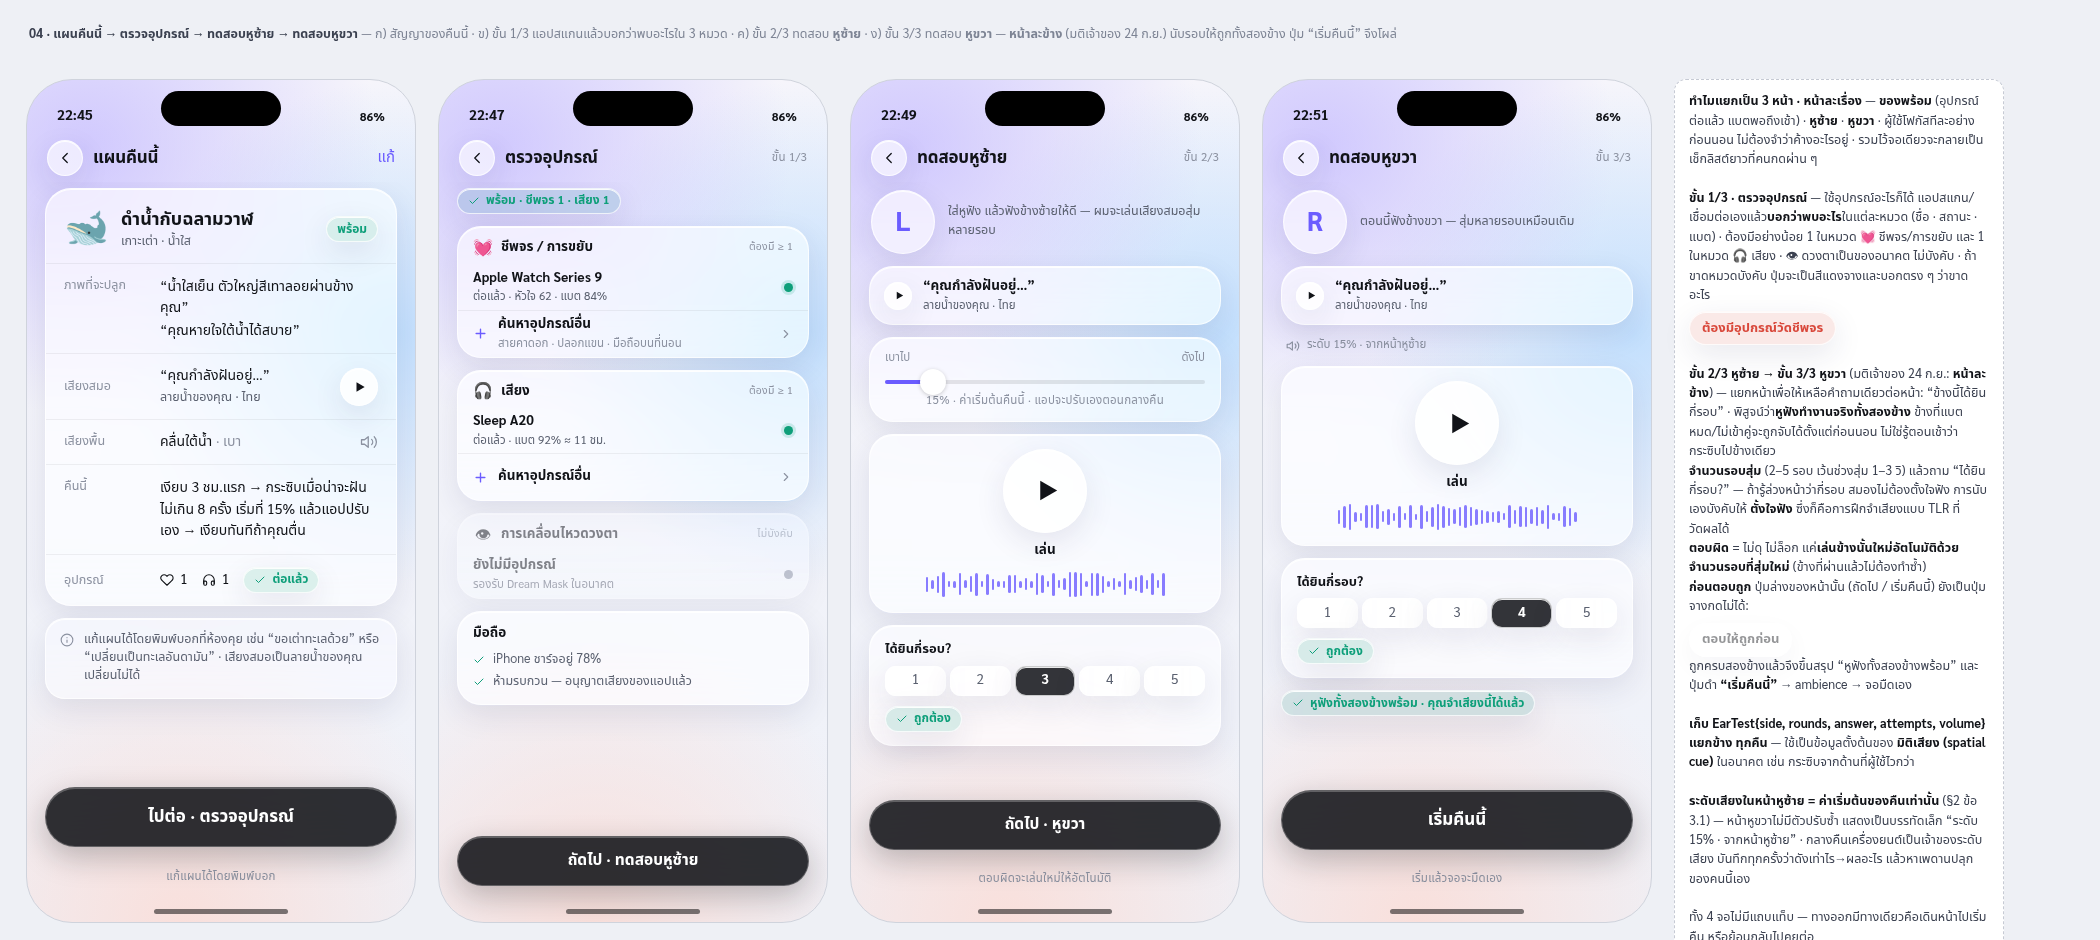
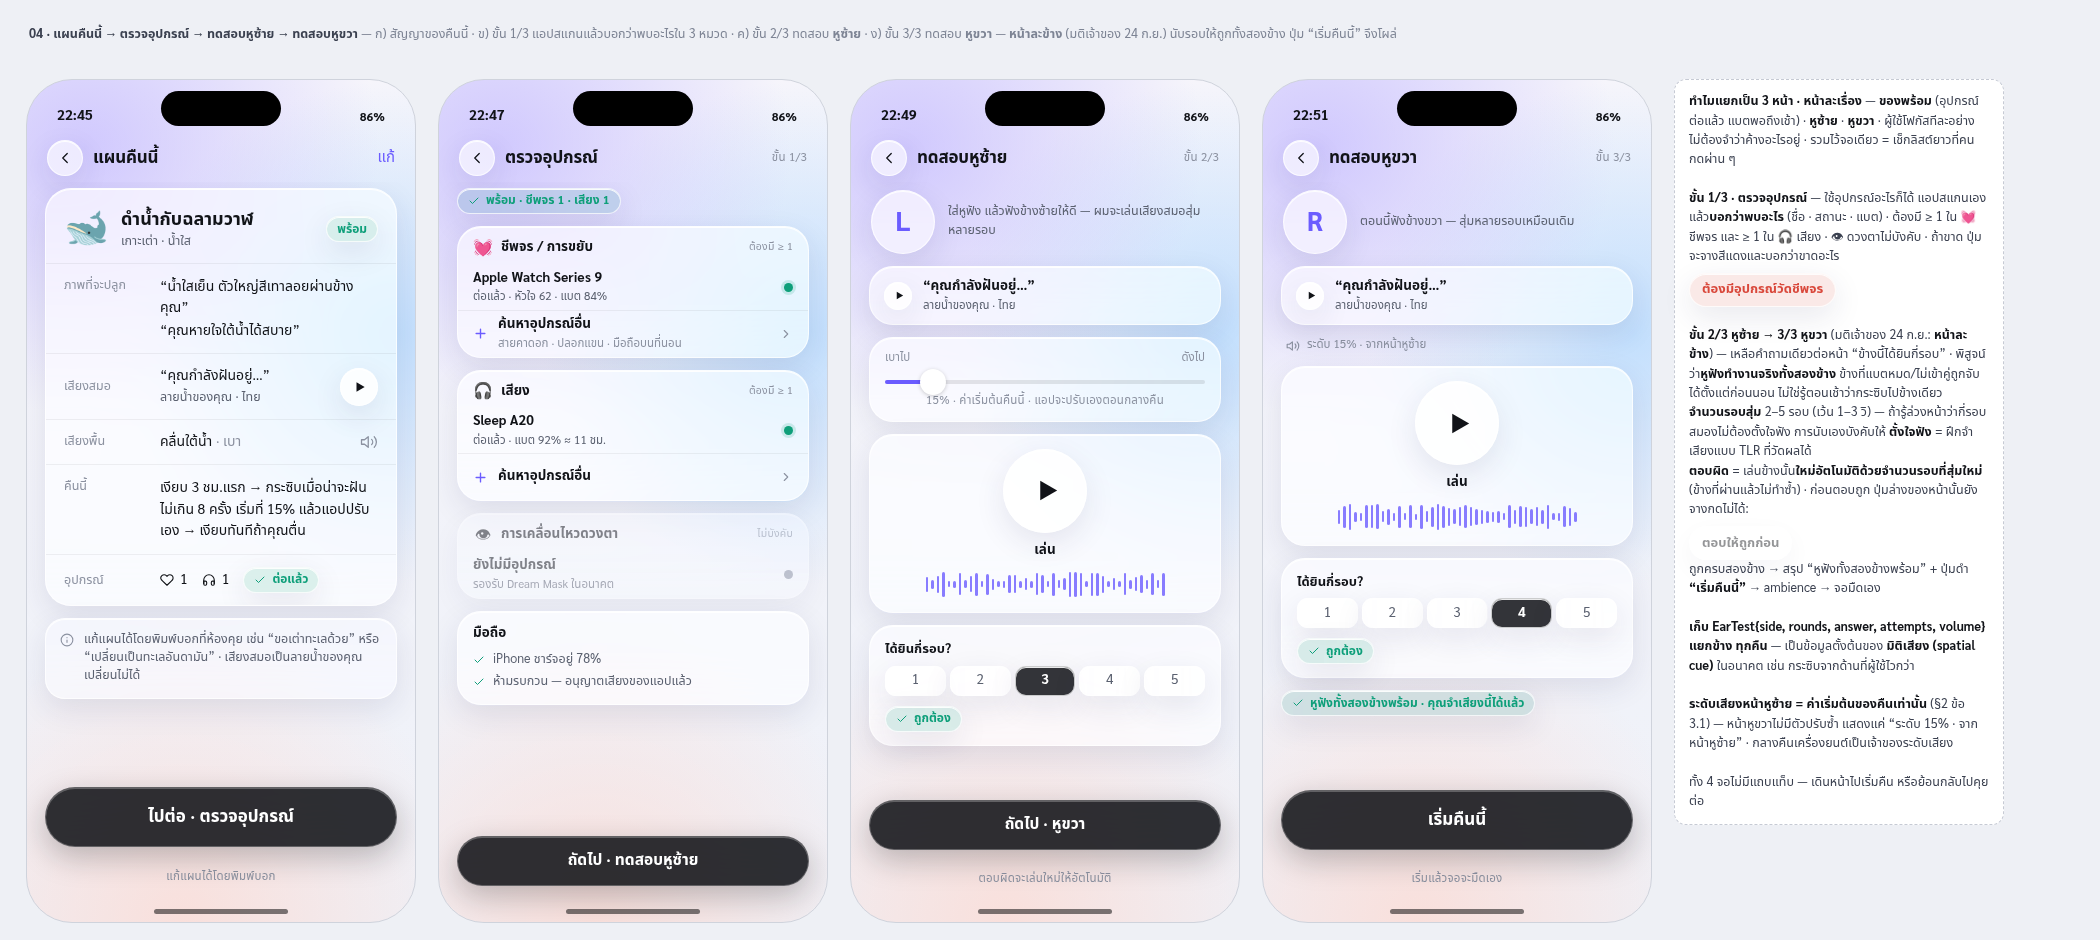
ภาพ 04: 4 จอ (แผน → ตรวจอุปกรณ์ → ทดสอบหูซ้าย → ทดสอบหูขวา → เริ่ม)

Changed region(s): [[0.8048, 0.216, 0.9595, 1.0], [0.8048, 0.1234, 0.9595, 0.1851], [0.8667, 0.9564, 0.9286, 0.9872]]

diff --git a/ledger/design-app/04-dream-plan.html b/ledger/design-app/04-dream-plan.html
@@ -589,18 +589,17 @@ h1.big{font-size:28px;font-weight:700;letter-spacing:-.02em;line-height:1.2}
   </div>
 
   <div class="note">
-    <b>ทำไมแยกเป็น 3 หน้า · หน้าละเรื่อง</b> — <b>ของพร้อม</b> (อุปกรณ์ต่อแล้ว แบตพอถึงเช้า) · <b>หูซ้าย</b> · <b>หูขวา</b> · ผู้ใช้โฟกัสทีละอย่างก่อนนอน ไม่ต้องจำว่าค้างอะไรอยู่ · รวมไว้จอเดียวจะกลายเป็นเช็กลิสต์ยาวที่คนกดผ่าน ๆ<br><br>
-    <b>ขั้น 1/3 · ตรวจอุปกรณ์</b> — ใช้อุปกรณ์อะไรก็ได้ แอปสแกน/เชื่อมต่อเองแล้ว<b>บอกว่าพบอะไร</b>ในแต่ละหมวด (ชื่อ · สถานะ · แบต) · ต้องมีอย่างน้อย 1 ในหมวด 💓 ชีพจร/การขยับ และ 1 ในหมวด 🎧 เสียง · 👁 ดวงตาเป็นของอนาคต ไม่บังคับ · ถ้าขาดหมวดบังคับ ปุ่มจะเป็นสีแดงจางและบอกตรง ๆ ว่าขาดอะไร<br>
+    <b>ทำไมแยกเป็น 3 หน้า · หน้าละเรื่อง</b> — <b>ของพร้อม</b> (อุปกรณ์ต่อแล้ว แบตพอถึงเช้า) · <b>หูซ้าย</b> · <b>หูขวา</b> · ผู้ใช้โฟกัสทีละอย่าง ไม่ต้องจำว่าค้างอะไรอยู่ · รวมไว้จอเดียว = เช็กลิสต์ยาวที่คนกดผ่าน ๆ<br><br>
+    <b>ขั้น 1/3 · ตรวจอุปกรณ์</b> — ใช้อุปกรณ์อะไรก็ได้ แอปสแกนเองแล้ว<b>บอกว่าพบอะไร</b> (ชื่อ · สถานะ · แบต) · ต้องมี ≥ 1 ใน 💓 ชีพจร และ ≥ 1 ใน 🎧 เสียง · 👁 ดวงตาไม่บังคับ · ถ้าขาด ปุ่มจะจางสีแดงและบอกว่าขาดอะไร<br>
     <span class="btn dg sm" style="margin-top:6px">ต้องมีอุปกรณ์วัดชีพจร</span><br><br>
-    <b>ขั้น 2/3 หูซ้าย → ขั้น 3/3 หูขวา</b> (มติเจ้าของ 24 ก.ย.: <b>หน้าละข้าง</b>) — แยกหน้าเพื่อให้เหลือคำถามเดียวต่อหน้า: “ข้างนี้ได้ยินกี่รอบ” · พิสูจน์ว่า<b>หูฟังทำงานจริงทั้งสองข้าง</b> ข้างที่แบตหมด/ไม่เข้าคู่จะถูกจับได้ตั้งแต่ก่อนนอน ไม่ใช่รู้ตอนเช้าว่ากระซิบไปข้างเดียว<br>
-    <b>จำนวนรอบสุ่ม</b> (2–5 รอบ เว้นช่วงสุ่ม 1–3 วิ) แล้วถาม “ได้ยินกี่รอบ?” — ถ้ารู้ล่วงหน้าว่ากี่รอบ สมองไม่ต้องตั้งใจฟัง การนับเองบังคับให้ <b>ตั้งใจฟัง</b> ซึ่งก็คือการฝึกจำเสียงแบบ TLR ที่วัดผลได้<br>
-    <b>ตอบผิด</b> = ไม่ดุ ไม่ล็อก แค่<b>เล่นข้างนั้นใหม่อัตโนมัติด้วยจำนวนรอบที่สุ่มใหม่</b> (ข้างที่ผ่านแล้วไม่ต้องทำซ้ำ)<br>
-    <b>ก่อนตอบถูก</b> ปุ่มล่างของหน้านั้น (ถัดไป / เริ่มคืนนี้) ยังเป็นปุ่มจางกดไม่ได้:<br>
+    <b>ขั้น 2/3 หูซ้าย → 3/3 หูขวา</b> (มติเจ้าของ 24 ก.ย.: <b>หน้าละข้าง</b>) — เหลือคำถามเดียวต่อหน้า “ข้างนี้ได้ยินกี่รอบ” · พิสูจน์ว่า<b>หูฟังทำงานจริงทั้งสองข้าง</b> ข้างที่แบตหมด/ไม่เข้าคู่ถูกจับได้ตั้งแต่ก่อนนอน ไม่ใช่รู้ตอนเช้าว่ากระซิบไปข้างเดียว<br>
+    <b>จำนวนรอบสุ่ม</b> 2–5 รอบ (เว้น 1–3 วิ) — ถ้ารู้ล่วงหน้าว่ากี่รอบ สมองไม่ต้องตั้งใจฟัง การนับเองบังคับให้ <b>ตั้งใจฟัง</b> = ฝึกจำเสียงแบบ TLR ที่วัดผลได้<br>
+    <b>ตอบผิด</b> = เล่นข้างนั้น<b>ใหม่อัตโนมัติด้วยจำนวนรอบที่สุ่มใหม่</b> (ข้างที่ผ่านแล้วไม่ทำซ้ำ) · ก่อนตอบถูก ปุ่มล่างของหน้านั้นยังจางกดไม่ได้:<br>
     <span class="btn gh sm fade" style="margin-top:6px">ตอบให้ถูกก่อน</span><br>
-    ถูกครบสองข้างแล้วจึงขึ้นสรุป “หูฟังทั้งสองข้างพร้อม” และปุ่มดำ <b>“เริ่มคืนนี้”</b> → ambience → จอมืดเอง<br><br>
-    <b>เก็บ EarTest{side, rounds, answer, attempts, volume} แยกข้าง ทุกคืน</b> — ใช้เป็นข้อมูลตั้งต้นของ <b>มิติเสียง (spatial cue)</b> ในอนาคต เช่น กระซิบจากด้านที่ผู้ใช้ไวกว่า<br><br>
-    <b>ระดับเสียงในหน้าหูซ้าย = ค่าเริ่มต้นของคืนเท่านั้น</b> (§2 ข้อ 3.1) — หน้าหูขวาไม่มีตัวปรับซ้ำ แสดงเป็นบรรทัดเล็ก “ระดับ 15% · จากหน้าหูซ้าย” · กลางคืนเครื่องยนต์เป็นเจ้าของระดับเสียง บันทึกทุกครั้งว่าดังเท่าไร→ผลอะไร แล้วหาเพดานปลุกของคนนี้เอง<br><br>
-    ทั้ง 4 จอไม่มีแถบแท็บ — ทางออกมีทางเดียวคือเดินหน้าไปเริ่มคืน หรือย้อนกลับไปคุยต่อ
+    ถูกครบสองข้าง → สรุป “หูฟังทั้งสองข้างพร้อม” + ปุ่มดำ <b>“เริ่มคืนนี้”</b> → ambience → จอมืดเอง<br><br>
+    <b>เก็บ EarTest{side, rounds, answer, attempts, volume} แยกข้าง ทุกคืน</b> — เป็นข้อมูลตั้งต้นของ <b>มิติเสียง (spatial cue)</b> ในอนาคต เช่น กระซิบจากด้านที่ผู้ใช้ไวกว่า<br><br>
+    <b>ระดับเสียงหน้าหูซ้าย = ค่าเริ่มต้นของคืนเท่านั้น</b> (§2 ข้อ 3.1) — หน้าหูขวาไม่มีตัวปรับซ้ำ แสดงแค่ “ระดับ 15% · จากหน้าหูซ้าย” · กลางคืนเครื่องยนต์เป็นเจ้าของระดับเสียง<br><br>
+    ทั้ง 4 จอไม่มีแถบแท็บ — เดินหน้าไปเริ่มคืน หรือย้อนกลับไปคุยต่อ
   </div>
 
 </div>

diff --git a/ledger/design-app/04-dream-plan.body.html b/ledger/design-app/04-dream-plan.body.html
@@ -326,18 +326,17 @@
   </div>
 
   <div class="note">
-    <b>ทำไมแยกเป็น 3 หน้า · หน้าละเรื่อง</b> — <b>ของพร้อม</b> (อุปกรณ์ต่อแล้ว แบตพอถึงเช้า) · <b>หูซ้าย</b> · <b>หูขวา</b> · ผู้ใช้โฟกัสทีละอย่างก่อนนอน ไม่ต้องจำว่าค้างอะไรอยู่ · รวมไว้จอเดียวจะกลายเป็นเช็กลิสต์ยาวที่คนกดผ่าน ๆ<br><br>
-    <b>ขั้น 1/3 · ตรวจอุปกรณ์</b> — ใช้อุปกรณ์อะไรก็ได้ แอปสแกน/เชื่อมต่อเองแล้ว<b>บอกว่าพบอะไร</b>ในแต่ละหมวด (ชื่อ · สถานะ · แบต) · ต้องมีอย่างน้อย 1 ในหมวด 💓 ชีพจร/การขยับ และ 1 ในหมวด 🎧 เสียง · 👁 ดวงตาเป็นของอนาคต ไม่บังคับ · ถ้าขาดหมวดบังคับ ปุ่มจะเป็นสีแดงจางและบอกตรง ๆ ว่าขาดอะไร<br>
+    <b>ทำไมแยกเป็น 3 หน้า · หน้าละเรื่อง</b> — <b>ของพร้อม</b> (อุปกรณ์ต่อแล้ว แบตพอถึงเช้า) · <b>หูซ้าย</b> · <b>หูขวา</b> · ผู้ใช้โฟกัสทีละอย่าง ไม่ต้องจำว่าค้างอะไรอยู่ · รวมไว้จอเดียว = เช็กลิสต์ยาวที่คนกดผ่าน ๆ<br><br>
+    <b>ขั้น 1/3 · ตรวจอุปกรณ์</b> — ใช้อุปกรณ์อะไรก็ได้ แอปสแกนเองแล้ว<b>บอกว่าพบอะไร</b> (ชื่อ · สถานะ · แบต) · ต้องมี ≥ 1 ใน 💓 ชีพจร และ ≥ 1 ใน 🎧 เสียง · 👁 ดวงตาไม่บังคับ · ถ้าขาด ปุ่มจะจางสีแดงและบอกว่าขาดอะไร<br>
     <span class="btn dg sm" style="margin-top:6px">ต้องมีอุปกรณ์วัดชีพจร</span><br><br>
-    <b>ขั้น 2/3 หูซ้าย → ขั้น 3/3 หูขวา</b> (มติเจ้าของ 24 ก.ย.: <b>หน้าละข้าง</b>) — แยกหน้าเพื่อให้เหลือคำถามเดียวต่อหน้า: “ข้างนี้ได้ยินกี่รอบ” · พิสูจน์ว่า<b>หูฟังทำงานจริงทั้งสองข้าง</b> ข้างที่แบตหมด/ไม่เข้าคู่จะถูกจับได้ตั้งแต่ก่อนนอน ไม่ใช่รู้ตอนเช้าว่ากระซิบไปข้างเดียว<br>
-    <b>จำนวนรอบสุ่ม</b> (2–5 รอบ เว้นช่วงสุ่ม 1–3 วิ) แล้วถาม “ได้ยินกี่รอบ?” — ถ้ารู้ล่วงหน้าว่ากี่รอบ สมองไม่ต้องตั้งใจฟัง การนับเองบังคับให้ <b>ตั้งใจฟัง</b> ซึ่งก็คือการฝึกจำเสียงแบบ TLR ที่วัดผลได้<br>
-    <b>ตอบผิด</b> = ไม่ดุ ไม่ล็อก แค่<b>เล่นข้างนั้นใหม่อัตโนมัติด้วยจำนวนรอบที่สุ่มใหม่</b> (ข้างที่ผ่านแล้วไม่ต้องทำซ้ำ)<br>
-    <b>ก่อนตอบถูก</b> ปุ่มล่างของหน้านั้น (ถัดไป / เริ่มคืนนี้) ยังเป็นปุ่มจางกดไม่ได้:<br>
+    <b>ขั้น 2/3 หูซ้าย → 3/3 หูขวา</b> (มติเจ้าของ 24 ก.ย.: <b>หน้าละข้าง</b>) — เหลือคำถามเดียวต่อหน้า “ข้างนี้ได้ยินกี่รอบ” · พิสูจน์ว่า<b>หูฟังทำงานจริงทั้งสองข้าง</b> ข้างที่แบตหมด/ไม่เข้าคู่ถูกจับได้ตั้งแต่ก่อนนอน ไม่ใช่รู้ตอนเช้าว่ากระซิบไปข้างเดียว<br>
+    <b>จำนวนรอบสุ่ม</b> 2–5 รอบ (เว้น 1–3 วิ) — ถ้ารู้ล่วงหน้าว่ากี่รอบ สมองไม่ต้องตั้งใจฟัง การนับเองบังคับให้ <b>ตั้งใจฟัง</b> = ฝึกจำเสียงแบบ TLR ที่วัดผลได้<br>
+    <b>ตอบผิด</b> = เล่นข้างนั้น<b>ใหม่อัตโนมัติด้วยจำนวนรอบที่สุ่มใหม่</b> (ข้างที่ผ่านแล้วไม่ทำซ้ำ) · ก่อนตอบถูก ปุ่มล่างของหน้านั้นยังจางกดไม่ได้:<br>
     <span class="btn gh sm fade" style="margin-top:6px">ตอบให้ถูกก่อน</span><br>
-    ถูกครบสองข้างแล้วจึงขึ้นสรุป “หูฟังทั้งสองข้างพร้อม” และปุ่มดำ <b>“เริ่มคืนนี้”</b> → ambience → จอมืดเอง<br><br>
-    <b>เก็บ EarTest{side, rounds, answer, attempts, volume} แยกข้าง ทุกคืน</b> — ใช้เป็นข้อมูลตั้งต้นของ <b>มิติเสียง (spatial cue)</b> ในอนาคต เช่น กระซิบจากด้านที่ผู้ใช้ไวกว่า<br><br>
-    <b>ระดับเสียงในหน้าหูซ้าย = ค่าเริ่มต้นของคืนเท่านั้น</b> (§2 ข้อ 3.1) — หน้าหูขวาไม่มีตัวปรับซ้ำ แสดงเป็นบรรทัดเล็ก “ระดับ 15% · จากหน้าหูซ้าย” · กลางคืนเครื่องยนต์เป็นเจ้าของระดับเสียง บันทึกทุกครั้งว่าดังเท่าไร→ผลอะไร แล้วหาเพดานปลุกของคนนี้เอง<br><br>
-    ทั้ง 4 จอไม่มีแถบแท็บ — ทางออกมีทางเดียวคือเดินหน้าไปเริ่มคืน หรือย้อนกลับไปคุยต่อ
+    ถูกครบสองข้าง → สรุป “หูฟังทั้งสองข้างพร้อม” + ปุ่มดำ <b>“เริ่มคืนนี้”</b> → ambience → จอมืดเอง<br><br>
+    <b>เก็บ EarTest{side, rounds, answer, attempts, volume} แยกข้าง ทุกคืน</b> — เป็นข้อมูลตั้งต้นของ <b>มิติเสียง (spatial cue)</b> ในอนาคต เช่น กระซิบจากด้านที่ผู้ใช้ไวกว่า<br><br>
+    <b>ระดับเสียงหน้าหูซ้าย = ค่าเริ่มต้นของคืนเท่านั้น</b> (§2 ข้อ 3.1) — หน้าหูขวาไม่มีตัวปรับซ้ำ แสดงแค่ “ระดับ 15% · จากหน้าหูซ้าย” · กลางคืนเครื่องยนต์เป็นเจ้าของระดับเสียง<br><br>
+    ทั้ง 4 จอไม่มีแถบแท็บ — เดินหน้าไปเริ่มคืน หรือย้อนกลับไปคุยต่อ
   </div>
 
 </div>
